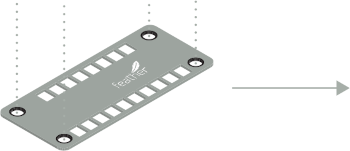
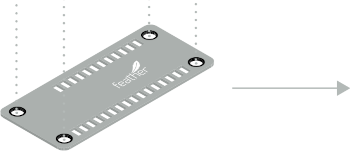
FeatherWing images chaged on the first page and links to SparkFun and WE added

diff --git a/README.md b/README.md
@@ -6,13 +6,13 @@
 
 [FeatherWings](https://learn.adafruit.com/adafruit-feather/featherwings) are stacking boards and add functionality and room for prototyping. At its core, the Adafruit Feather is a complete ecosystem of products - and the best way to get your project flying.
 
-Würth Elektronik eiSos presents FeatherWings that are open source and fully compatible with the Feather form factor. Through these development boards WE brings a range of wireless connectivity modules, sensors and power modules to the Feather ecosystem.
+[Würth Elektronik eiSos](https://www.we-online.de/web/en/wuerth_elektronik/start.php) presents FeatherWings that are **open source** and **fully compatible** with the **Feather form factor**. Through these development boards WE brings a range of wireless connectivity modules, sensors and power modules to the Feather ecosystem.
 
 Hypercharge your prototyping for easy and fast solution testing.
 
 | Image    | Description |
 | -------- | ----------- |
-|![WE FeatherWings](assets/Stacked-FeatherWings-single-board.png) | [**Sensor FeatherWing** (2501000201291)](/SensorFeatherWing) <ul> <li>Acceleration (WSEN-ITDS)<li>Absolute Pressure (WSEN-PADS)<li>Temperature (WSEN-TIDS)<li>Humidity (WSEN-HIDS)<li>Sparkfun QWIIC® Connect System to connect additional peripherals </ul> |
+|![WE FeatherWings](assets/Stacked-FeatherWings-single-board.png) | [**Sensor FeatherWing** (2501000201291)](/SensorFeatherWing) <ul> <li>Acceleration (WSEN-ITDS)<li>Absolute Pressure (WSEN-PADS)<li>Temperature (WSEN-TIDS)<li>Humidity (WSEN-HIDS)<li>[Sparkfun QWIIC® Connect System](https://www.sparkfun.com/qwiic) to connect additional peripherals </ul> |
 |![WE FeatherWings](assets/Stacked-FeatherWings-single-board.png) | [**Thyone-I Wireless FeatherWing** (2611059021001)](/ThyoneWirelessFeatherWing)<ul><li>2.4 GHz Proprietary radio Module<li>Robust wireless link up to 500 m<li>Easy build up networks<li>Connect to Thyone modules or USB-Stick</ul> |
 |![WE FeatherWings](assets/Stacked-FeatherWings-single-board.png) | [**Calypso WiFi FeatherWing** (2610039025001)](/CalypsoWiFiFeatherWing)<ul><li>2.4 GHz WiFi-Connectivity <li>Easy and secure connection to Smart Devices<li>Out-of-the-box support to applications like HTTP(S), MQTT(S) <li>AT-style command interface </ul> |
 |![WE FeatherWings](assets/Stacked-FeatherWings-single-board.png) | [**MagI³C Power FeatherWing** (2601157100001)](/MagI3CPowerFeatherWing)<ul><li>5 V and 3.3 V power supply<li>Using a range of input voltages (5 V, 9 V, 12 V, 15 V, 18 V and 24 V industrial rails)</ul> |
